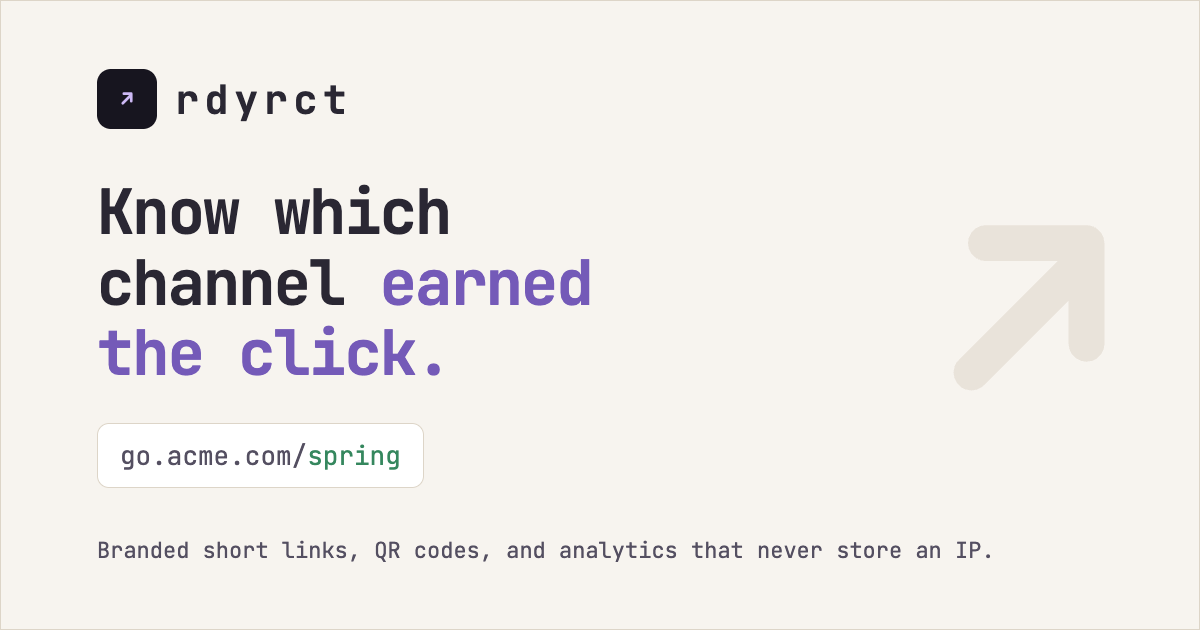
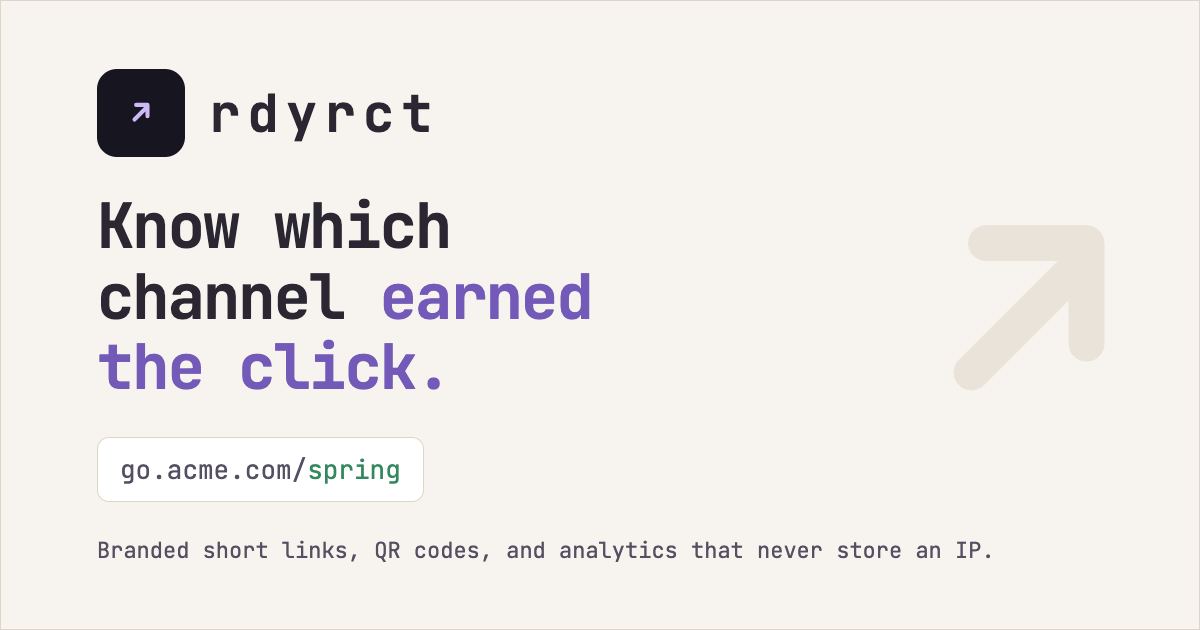
Scale up the brand mark in the OG image
The mark goes 60px to 88px and the arrow inside it 34px to 52px, with the
wordmark up from 40px to 52px so the lockup keeps its proportions. OG cards
are shown small in a feed, so the brand was the first thing to disappear.

Changed region(s): [[0.0617, 0.3016, 0.4933, 0.6333], [0.0617, 0.0905, 0.37, 0.2714], [0.0925, 0.6937, 0.3392, 0.7841]]

diff --git a/scripts/og-image.html b/scripts/og-image.html
@@ -79,20 +79,20 @@
       .brand {
         display: flex;
         align-items: center;
-        gap: 18px;
+        gap: 24px;
       }
 
       .mark {
-        width: 60px;
-        height: 60px;
-        border-radius: 14px;
+        width: 88px;
+        height: 88px;
+        border-radius: 20px;
         background: #17151f;
         display: grid;
         place-items: center;
       }
 
       .wordmark {
-        font-size: 40px;
+        font-size: 52px;
         font-weight: 700;
         letter-spacing: 0.14em;
       }
@@ -157,7 +157,7 @@
 
     <div class="brand">
       <span class="mark">
-        <svg width="34" height="34" viewBox="0 0 32 32" fill="none" aria-hidden="true">
+        <svg width="52" height="52" viewBox="0 0 32 32" fill="none" aria-hidden="true">
           <path
             d="M12 20l8-8M13 11h7v7"
             stroke="#cdb9f5"
